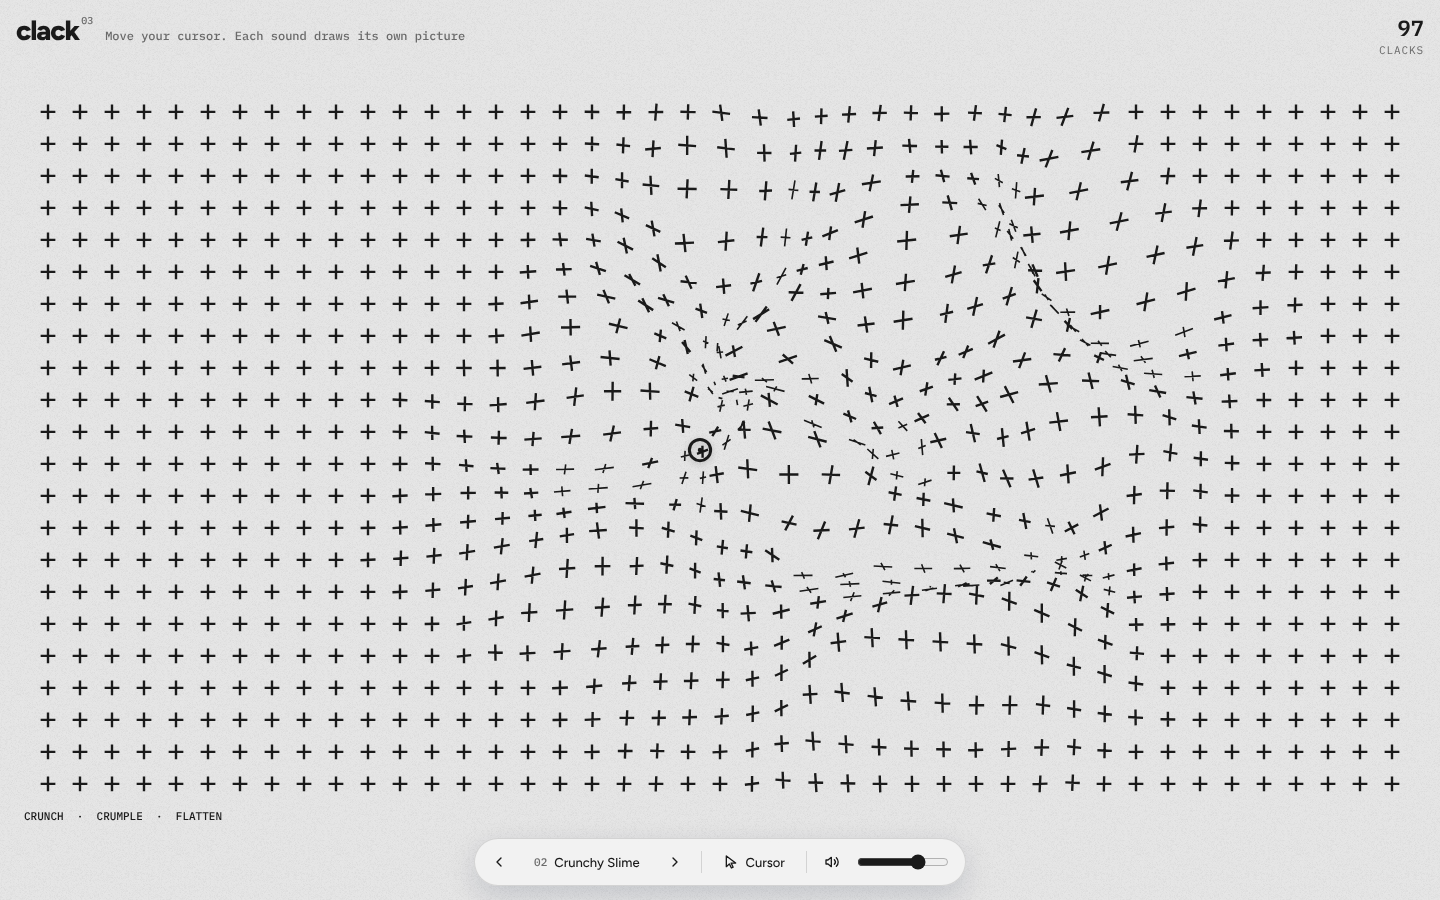
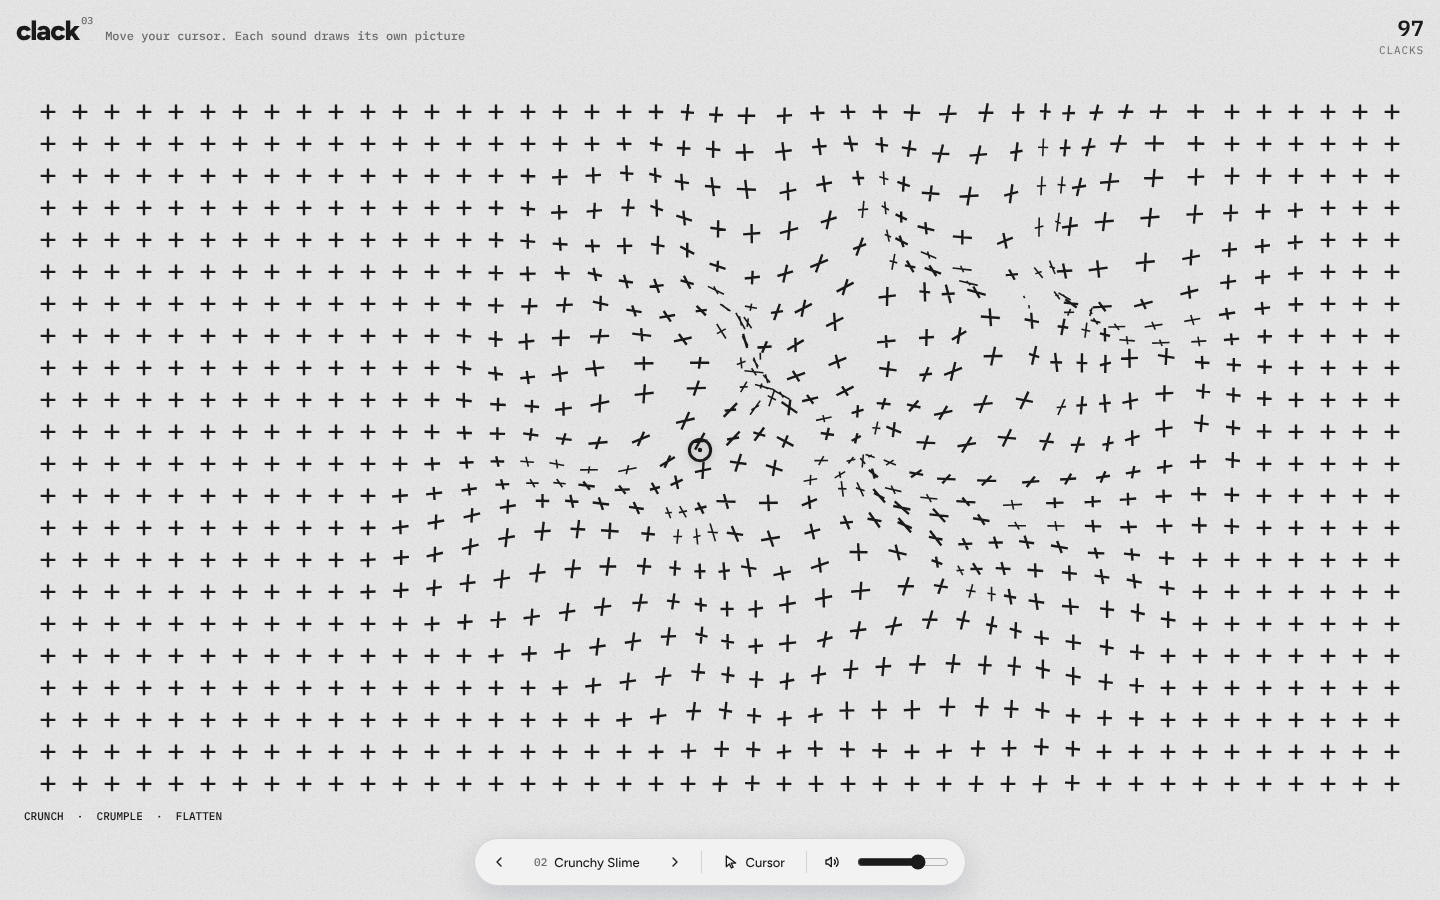
Kinetic Sand as a navy ballpoint scribble that frays into handwriting
Claude-Session: https://claude.ai/code/session_01RGg1knSDUuuatZ2pa2YvBi

diff --git a/index.html b/index.html
@@ -24,7 +24,7 @@
 }
 body[data-scene="wrap"]   { --bg: #eae8dc; --ink: #2c62fb; --ink-soft: #6f86c4; --line: rgba(44,98,251,.16); --panel: rgba(245,244,237,.88); --acc: #2c62fb; --cursor: #2c62fb; color-scheme: light; }
 body[data-scene="cloth"]  { --bg: #e6e6e6; --ink: #1a1a1a; --ink-soft: #6a6a6a; --line: rgba(26,26,26,.14); --panel: rgba(244,244,244,.88); --acc: #1a1a1a; --cursor: #1a1a1a; color-scheme: light; }
-body[data-scene="sand"]   { --bg: #4d7c66; --ink: #f4f6ef; --ink-soft: #c5d6cb; --line: rgba(244,246,239,.2); --panel: rgba(62,104,85,.9); --acc: #f4f6ef; --cursor: #f4f6ef; color-scheme: dark; }
+body[data-scene="sand"]   { --bg: #fbfbf8; --ink: #1b1f66; --ink-soft: #6a6d99; --line: rgba(27,31,102,.14); --panel: rgba(255,255,255,.9); --acc: #1b1f66; --cursor: #1b1f66; color-scheme: light; }
 
 * { box-sizing: border-box; }
 [hidden] { display: none !important; }
@@ -331,7 +331,7 @@ const SOUNDS = {
       if (Math.random() < 0.5) tone('sine', rand(1800, 2600), t + rand(0.02, 0.1), { a: 0.002, d: 0.02, g: 0.04, wet: 0.3 });
     },
     up(k, t, j) { hiss(t, { f: 700 * j, f2: 1500, ft: 0.08, q: 8, a: 0.01, d: 0.08, g: 0.4 }); crinkle(t, 4, 0.06, { g: 0.2 }); } },
-  sand: { name: 'Kinetic Sand', desc: 'Trickle grains through the ripples', scene: 'sand',
+  sand: { name: 'Kinetic Sand', desc: 'Scratch ink into a ballpoint scribble', scene: 'sand',
     // only fine grains trickling: an airy hiss that fades in slowly, never a burst
     down(k, t, j) {
       hiss(t, { f: 3400 * j, q: 0.8, a: 0.07, d: 0.2, g: 0.2 });
@@ -652,89 +652,72 @@ const SCENES = {
     }
   },
 
-  /* 03 Kinetic Sand: white tick marks on grainy green, laid out on rows like a raked sand garden, in rings packed
-     tight near the centre and wide apart far away. The ticks are grains: the cursor parts them like a finger dragged
-     through sand, and each step knocks the grains around it loose. They fall under gravity, pile up along the bottom
-     in a little dune, and the hole they left in the rings slowly fills back in. */
+  /* 03 Kinetic Sand: navy ballpoint on white paper. A dense scribbled mass on the left frays into lines of
+     scrawled handwriting on the right. The cursor writes its own loopy scrawl as it moves, and every step scratches
+     a tight knot of ink, so rubbing one spot builds it up dark and grainy, like sand piling. New ink slowly fades. */
   sand: {
     init() {
-      this.cy = (ZT + ZB) / 2; this.ty = this.cy; this.ph = 0; this.boost = 0; this.pulses = []; this.gr = []; this.holes = [];
-      this.pile = new Float32Array(Math.ceil(SW / 3) + 2);
-      this.cur = { x: -999, y: -999, t: 0, a: 0 };
-      this.row = clamp(Math.round(Math.min(SW, SH) / 70), 9, 14);
-      paper(dc, '#4d7c66', .16);
+      const W = SW * SDPR, H = SH * SDPR;
+      this.lv = this.lv || document.createElement('canvas'); this.lv.width = W; this.lv.height = H;
+      this.lc = this.lv.getContext('2d'); this.lc.setTransform(SDPR, 0, 0, SDPR, 0, 0); this.lc.lineCap = 'round'; this.lc.lineJoin = 'round';
+      this.pen = { x: -1, y: -1, ph: 0, r: 4 }; this.fadeT = 0;
+      paper(dc, '#fbfbf8', .05);
+      dc.lineCap = 'round'; dc.lineJoin = 'round';
+      const top = ZT + 18, bot = ZB - 24, left = SW * .04;
+      // the mass: row after row of big overlapping loops, laid down in a few passes so the ink goes dense but grainy
+      const edgeAt = y => SW * (.3 + .1 * Math.sin(y * .011) + .06 * Math.sin(y * .047));
+      for (let y = top; y < bot; y += 2) { const e = edgeAt(y) - rand(30, 90); dc.fillStyle = 'rgba(27,31,102,.5)'; dc.fillRect(left, y, e - left, 2); }
+      for (let pass = 0; pass < 3; pass++) for (let y = top; y < bot; y += 4) {
+        this.scrawl(dc, left + rand(-4, 4), y, edgeAt(y) + rand(-30, 25) - left, rand(5, 11), .3, .8);
+      }
+      // ballpoint grain: tiny gaps where the pen skipped
+      dc.fillStyle = 'rgba(251,251,248,.55)';
+      for (let i = 0, n = SW * SH / 90; i < n; i++) { const y = rand(top, bot), x = rand(left, edgeAt(y)); dc.fillRect(x, y, rand(.8, 2), rand(.8, 1.6)); }
+      // the frayed edge: lines of handwriting trailing out of the mass at uneven lengths
+      for (let y = top + 4; y < bot; y += rand(9, 16)) {
+        const edge = edgeAt(y);
+        if (Math.random() < .25) continue;
+        this.scrawl(dc, edge - rand(10, 40), y, SW * rand(.08, Math.random() < .3 ? .5 : .22), rand(2.4, 3.6), .75, 1);
+      }
     },
-    move(x, y) { this.ty = clamp(y, ZT + 40, ZB - 40); this.cur.x = x; this.cur.y = y; this.cur.t = performance.now(); },
-    hit(x, y, k, now) {
-      this.boost = Math.min(3, this.boost + .12); this.pulses.push({ t0: now }); if (this.pulses.length > 10) this.pulses.shift();
-      // knock a hole in the rings; the next frame turns every tick inside it into a falling grain
-      this.holes.push({ x, y, t0: now, R: this.row * rand(2.6, 3.6), fresh: true });
-      if (this.holes.length > 40) this.holes.shift();
+    // cursive scrawl: the pen moves right while circling, so it draws loops; it lifts now and then between words
+    scrawl(g, x0, y0, len, r, alpha, lw) {
+      g.strokeStyle = `rgba(27,31,102,${alpha})`; g.lineWidth = lw; g.beginPath();
+      let x = x0, t = Math.random() * 6.28, word = rand(14, 60), down = true, rr = r, ry = r, base = y0;
+      g.moveTo(x + Math.cos(t) * r, y0 + Math.sin(t) * r * .8);
+      while (x < x0 + len) {
+        // every turn of the loop is a new letter: its own width and height, now and then a tall stroke, and a drifting baseline
+        const w = rand(.4, .9); t += w; x += r * w * rand(.35, .9);
+        if (t % 6.28 < w) { rr = r * rand(.5, 1.3); ry = r * (Math.random() < .15 ? rand(1.8, 2.6) : rand(.5, 1.2)); base += rand(-.6, .6); base += (y0 - base) * .2; }
+        const py = base + Math.sin(t) * ry + rand(-.5, .5), px = x + Math.cos(t) * rr - (py - base) * .45; // slanted, like quick handwriting
+        word -= r * w;
+        if (word < 0) { word = rand(14, 60) + r * 4; down = !down || Math.random() < .5; if (!down) { x += r * rand(1, 2.5); g.moveTo(px, py); down = true; continue; } }
+        g.lineTo(px, py);
+      }
+      g.stroke();
     },
-    // a grain's place on a ring, nudged away from the finger and shivering while the finger is near
-    shift(x, y, now) {
-      const c = this.cur; if (c.a < .01) return x;
-      const dx = x - c.x, dy = y - c.y, e2 = dx * dx + dy * dy, R = this.row * 6; if (e2 > R * R) return x;
-      const e = Math.sqrt(e2), f = 1 - e / R, h = Math.sin(x * 12.9898 + y * 78.233) * 43758.5453 % 1;
-      return x + (dx >= 0 ? 1 : -1) * f * f * this.row * 1.6 * c.a + Math.sin(now / 45 + h * 40) * f * 1.6 * c.a;
+    move(x, y) {
+      const p = this.pen, g = this.lc;
+      if (p.x < 0) { p.x = x; p.y = y; return; }
+      const d = Math.hypot(x - p.x, y - p.y); if (d < .5) return;
+      // the pen circles as it travels, so a straight swipe comes out as a line of loops
+      g.strokeStyle = 'rgba(27,31,102,.75)'; g.lineWidth = 1; g.beginPath();
+      const n = Math.ceil(d / 2);
+      let lx = p.x + Math.cos(p.ph) * p.r, ly = p.y + Math.sin(p.ph) * p.r * .8; g.moveTo(lx, ly);
+      for (let i = 1; i <= n; i++) { p.ph += rand(.35, .8); p.r += (rand(1.5, 8) - p.r) * .25; g.lineTo(p.x + (x - p.x) * i / n + Math.cos(p.ph) * p.r, p.y + (y - p.y) * i / n + Math.sin(p.ph) * p.r * .8); }
+      g.stroke(); p.x = x; p.y = y;
+    },
+    hit(x, y) {
+      // a tight knot of scratches, grain by grain, like the sound's sixteen ticks
+      const g = this.lc;
+      for (let i = 0; i < 3; i++) this.scrawl(g, x - rand(8, 18), y + rand(-7, 7), rand(16, 34), rand(3, 7), .28, .9);
     },
     draw(now, dt) {
       sc.drawImage(deco, 0, 0, SW, SH);
-      this.cy += (this.ty - this.cy) * Math.min(1, dt * .002);
-      this.boost *= Math.pow(.9985, dt);
-      this.ph = (this.ph + dt * .00012 * (1 + this.boost * 3)) % 1;
-      this.pulses = this.pulses.filter(p => now - p.t0 < 3000);
-      const c = this.cur; c.a += (clamp(1 - (now - c.t - 250) / 700, 0, 1) - c.a) * Math.min(1, dt * .01);
-      const left = SW * .05, right = SW * .95, cx = SW * .72, cy = this.cy, Rmax = cx - left * 1.6, N = 34, row = this.row, th = row * .45;
-      const top = ZT + row, bot = ZB - row * 2;
-      sc.fillStyle = '#f4f6ef';
-      // holes refill from the rim inward over a few seconds
-      this.holes = this.holes.filter(hl => now - hl.t0 < 5000);
-      const k2 = dt / 16, holes = this.holes;
-      const tick = (x, y) => {
-        for (const hl of holes) {
-          const dx = x - hl.x, dy = y - hl.y, rr = hl.R * (hl.fresh ? 1 : Math.min(1, 1.25 - (now - hl.t0) / 4000));
-          if (dx * dx + dy * dy < rr * rr) { if (hl.fresh && this.gr.length < 700) this.gr.push({ x, y, vx: rand(-.5, .5) + dx * .02, vy: rand(-1.4, -.2), t0: now + Math.random() * 180, land: 0 }); return; }
-        }
-        sc.fillRect(this.shift(x, y, now), y, 1.4, th);
-      };
-      for (let k = 0; k < N; k++) {
-        // radii bunch up near the band: equal steps in a power curve, sliding outward with the phase
-        const u = (k + this.ph) / N, r = Rmax * Math.pow(u, 1.7);
-        if (r < 2) continue;
-        let br = .55 + .35 * (1 - u);
-        for (const p of this.pulses) { const a2 = (now - p.t0) / 3000, z = (u - a2) * 9; br += Math.exp(-z * z) * .5 * (1 - a2); }
-        sc.globalAlpha = Math.min(1, br);
-        for (let y = top; y < bot; y += row) {
-          const dy = y + th / 2 - cy; if (Math.abs(dy) >= r) continue;
-          const dx = Math.sqrt(r * r - dy * dy);
-          tick(cx - dx, y);
-          if (cx + dx < right - 4) tick(cx + dx, y);
-        }
-      }
-      for (const hl of holes) hl.fresh = false;
-      // loose grains fall under gravity and heap up along the floor; a grain slides off any slope steeper than its
-      // neighbours, so the heap spreads into a dune. Grains sink away after a while and the dune shrinks with them.
-      const P = this.pile, floor = bot + th, gh = th * .6;
-      this.gr = this.gr.filter(g => {
-        if (!g.land || now - g.land < 7000) return true;
-        P[g.bin] = Math.max(0, P[g.bin] - gh); return false;
-      });
-      for (const g of this.gr) {
-        if (now < g.t0) continue;
-        if (!g.land) {
-          g.vy = Math.min(g.vy + .18 * k2, 9); g.vx *= Math.pow(.985, k2); g.x += g.vx * k2; g.y += g.vy * k2;
-          let bin = clamp(Math.round(g.x / 3), 1, P.length - 2);
-          if (g.y + th >= floor - P[bin]) {
-            for (let n = 0; n < 12; n++) { const l = P[bin - 1], r = P[bin + 1], m = P[bin]; if (l < m - gh * 1.5 && bin > 1 && (l <= r || bin >= P.length - 2)) bin--; else if (r < m - gh * 1.5 && bin < P.length - 2) bin++; else break; }
-            g.bin = bin; g.x = bin * 3 + rand(-.6, .6); g.y = floor - P[bin] - th; P[bin] += gh; g.land = now;
-          }
-        }
-        const fade = g.land ? clamp((7000 - (now - g.land)) / 1500, 0, 1) : 1;
-        sc.globalAlpha = .92 * fade;
-        sc.fillRect(g.x, g.y, 1.4, th);
-      }
-      sc.globalAlpha = 1;
+      // fresh ink fades out over a minute or so, so the page never clogs up
+      this.fadeT += dt;
+      if (this.fadeT > 120) { this.fadeT = 0; const g = this.lc; g.save(); g.setTransform(1, 0, 0, 1, 0, 0); g.globalCompositeOperation = 'destination-out'; g.fillStyle = 'rgba(0,0,0,.012)'; g.fillRect(0, 0, this.lv.width, this.lv.height); g.restore(); }
+      sc.drawImage(this.lv, 0, 0, SW, SH);
     }
   },
 
@@ -850,9 +833,8 @@ function thumb(id) {
       }
       return svg('#e6e6e6', b);
     case 'sand':
-      for (let k = 1; k < 12; k++) { const r2 = 46 * Math.pow(k / 12, 1.7); for (let y = 4; y < 47; y += 3.4) { const dy = y + .8 - 25; if (Math.abs(dy) < r2) { const dx = Math.sqrt(r2 * r2 - dy * dy); b += `<rect x="${(58 - dx).toFixed(1)}" y="${y}" width=".5" height="1.6"/>`; if (58 + dx < 74) b += `<rect x="${(58 + dx).toFixed(1)}" y="${y}" width=".5" height="1.6"/>`; } } }
-      for (let y = 4; y < 47; y += 3.4) b += `<rect x="56.5" y="${y}" width="3" height="1.6"/><rect x="5" y="${y}" width=".5" height="1.6"/><rect x="75" y="${y}" width=".5" height="1.6"/>`;
-      return svg('#4d7c66', `<g fill="#f4f6ef">${b}</g>`);
+      for (let y = 4; y < 48; y += 1.6) { const e = 28 + Math.sin(y * .5) * 5 + r() * 6; b += `<path d="M3 ${y.toFixed(1)}H${e.toFixed(1)}" stroke="#1b1f66" stroke-opacity=".55" stroke-width="1.4" stroke-dasharray="${(1 + r() * 2).toFixed(1)} .4"/>`; if (r() < .45) b += `<path d="M${(e - 3).toFixed(1)} ${y.toFixed(1)}h${(8 + r() * 30).toFixed(1)}" stroke="#1b1f66" stroke-width=".35" stroke-dasharray="2 .7 1 .9"/>`; }
+      return svg('#fbfbf8', b);
   }
   return svg('#eee', '');
 }

diff --git a/README.md b/README.md
@@ -8,7 +8,7 @@ A stress-relief sound toy. Move your cursor across the screen and every step cli
 |---|-------|---------|
 | 01 | Bubble Wrap | The sheet as a blue contour map on cream paper: each bubble is a hill of rings, and a pop flattens it and sends a ripple through its neighbours before it slowly refills |
 | 02 | Crunchy Slime | A sheet of + stitches that crumples like paper: each step folds it along a straight crease into flat, angular facets that slowly flatten out |
-| 03 | Kinetic Sand | White tick marks on grainy green in rippling rings; the cursor parts them like a finger in sand, and each step knocks grains loose that fall under gravity into a dune along the bottom while the hole slowly refills |
+| 03 | Kinetic Sand | Navy ballpoint on white: a dense scribbled mass frays into lines of scrawled handwriting. The cursor writes its own loopy scrawl, and each step scratches a knot of ink that builds up where you rub; fresh ink slowly fades |
 
 - **Just move**: sounds play as your cursor moves. On touch screens, drag a finger. The page always opens on 01 Bubble Wrap.
 - **Custom cursor**: 9 shapes, any color, adjustable size and trail.
